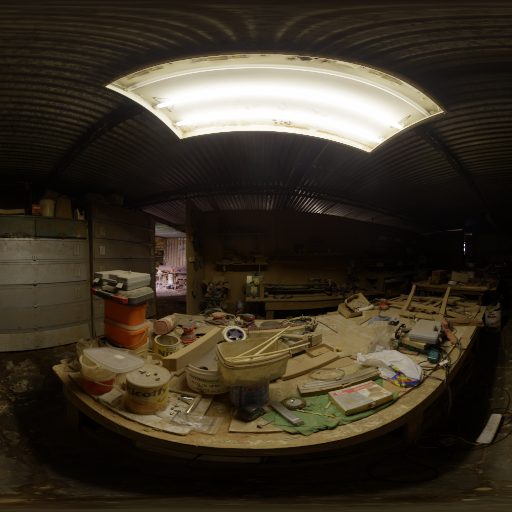
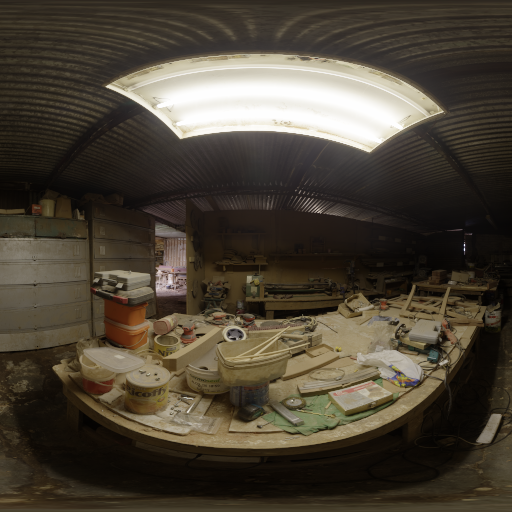
added target_color_space to ColorImage tone mapping; added ACEScc CS to color2color script

diff --git a/src/tinycio/usertypes.py b/src/tinycio/usertypes.py
@@ -311,30 +311,51 @@ class ColorImage(torch.Tensor):
         res = ColorImage(res, color_space=color_space)
         return res
 
-    def tone_map(self, tone_mapper:Union[str,ToneMapping.Variant]) -> ColorImage:
+    def tone_map(self, 
+        tone_mapper:Union[str,ToneMapping.Variant], 
+        target_color_space:Union[str,ColorSpace.Variant]=ColorSpace.Variant.SRGB_LIN) -> ColorImage:
         """
         Apply tone mapping and return as new :class:`ColorImage`.
 
         .. note::
 
+            Image will be returned and (if the TMO allows) tone mapped in the desired target color space. 
             Any needed color space conversion will be handled automatically.
 
         :param tone_mapper: Tone mapper to use.
         :type tone_mapper: str | ToneMapping.Variant
+        :param target_color_space: The desired color space the image should be tone mapped for. 
+            Must be a scene-linear RGB color space. The image will be returned in this color space. 
+            If the TMO requires a different color space, the image will converted after tone mapping. 
+            Some TMOs may have been designed with linear sRGB in mind and may not perform as expected 
+            in a different color space.
+        :type target_color_space: str | ColorSpace.Variant
         :return: New tone mapped :class:`ColorImage`.
         """
         if type(tone_mapper) is str: tone_mapper = ToneMapping.Variant[tone_mapper.strip().upper()]
-        assert isinstance(tone_mapper, ToneMapping.Variant), "Invalid tone mapper"
+        if type(target_color_space) is str: target_color_space = ColorSpace.Variant[target_color_space.strip().upper()]
         ip = self.clone()
-        cs_tm = self.color_space
+
+        assert isinstance(tone_mapper, ToneMapping.Variant), "Invalid tone mapper"
+        assert target_color_space & ColorSpace.Variant.SCENE_LINEAR, "target color space expected to be scene-linear"
+        assert (target_color_space & ColorSpace.Variant.SCENE_LINEAR & ColorSpace.Variant.MODEL_RGB), \
+            "target color space must be a in a scene-linear RGB color space"
+        assert self.color_space != ColorSpace.Variant.UNKNOWN and self.color_space != ColorSpace.Variant.NONCOLOR, \
+            "input image must have a valid color space"
+        
+        res = None
+
         if tone_mapper == ToneMapping.Variant.ACESCG:
-            cs_tm = ColorSpace.Variant.ACESCG
-        elif not (self.color_space & ColorSpace.Variant.SCENE_LINEAR & ColorSpace.Variant.MODEL_RGB):
-            cs_tm = ColorSpace.Variant.SRGB_LIN
-        res = ColorSpace.convert(ip, source=self.color_space, destination=cs_tm)
+            res = ColorSpace.convert(ip, source=self.color_space, destination=ColorSpace.Variant.ACESCG)
+        else:
+            res = ColorSpace.convert(ip, source=self.color_space, destination=target_color_space)
+        
         res = ToneMapping.apply(res, tone_mapper=tone_mapper)
-        res = ColorSpace.convert(res, source=cs_tm, destination=self.color_space)
-        return ColorImage(res, color_space=self.color_space)
+
+        if tone_mapper == ToneMapping.Variant.ACESCG:
+            res = ColorSpace.convert(res, source=ColorSpace.Variant.ACESCG, destination=target_color_space)
+
+        return ColorImage(res.clamp(0., 1.), color_space=target_color_space)
 
     def lut(self, lut:Union[str, LookupTable], lut_format=LUTFormat.UNKNOWN) -> ColorImage:
         """

diff --git a/src/tinycio/scripts/color2color.py b/src/tinycio/scripts/color2color.py
@@ -16,29 +16,43 @@ def main_cli():
             'cie_xyz', 'cie_xyy', 'srgb', 'srgb_lin',
             'rec709', 'rec2020', 'rec2020_lin', 
             'dci_p3', 'dci_p3_lin', 'display_p3',
-            'acescg', 'aces2065_1', 'lms', 'hsl', 'hsv',
-            'oklab', 'cielab'],
+            'acescg', 'aces2065_1', 'acescc', 'lms', 
+            'hsl', 'hsv', 'oklab', 'cielab'],
         metavar='input-color-space', # because bad formatting is bad :(
         help='Input color space\n' + \
             'CHOICES:\n' + \
             '    cie_xyz, cie_xyy, srgb, srgb_lin, \n' + \
             '    rec709, rec2020, rec_2020_lin, \n' + \
             '    dci_p3, dci_p3_lin, display_p3, \n' + \
-            '    acescg, aces2065_1, lms, hsl, hsv \n' + \
-            '    oklab, cielab'
+            '    acescg, acescc, aces2065_1, \n' + \
+            '    lms, hsl, hsv, oklab, cielab'
         )
     parser.add_argument('output', type=str, help='Output image file path')
     parser.add_argument(
         'ocs',
         type=str, 
         choices=[
-            'cie_xyz', 'cie_xyy', 'srgb', 'srgb_linear',
-            'rec709', 'rec2020', 'dci_p3', 'display_p3',
-            'acescg', 'aces2065_1', 'lms', 'hsl', 'hsv',
-            'oklab', 'cielab'],
+            'cie_xyz', 'cie_xyy', 'srgb', 'srgb_lin',
+            'rec709', 'rec2020', 'rec2020_lin', 
+            'dci_p3', 'dci_p3_lin', 'display_p3',
+            'acescg', 'aces2065_1', 'acescc', 'lms', 
+            'hsl', 'hsv', 'oklab', 'cielab'],
         metavar='output-color-space',
         help='Output color space\n' + \
             'CHOICES: [same as above]'  
+        )
+    parser.add_argument(
+        '--tmcs', 
+        type=str, 
+        default="srgb_lin", 
+        const="srgb_lin",
+        nargs='?',
+        choices=['srgb_lin', 'rec2020_lin', 'dci_p3_lin', 'acescg', 'aces2065_1'],
+        metavar='', 
+        help='Tone mapping color space (default: %(default)s)\n' + \
+            'CHOICES:\n' + \
+            '    srgb_lin, rec2020_lin \n' + \
+            '    dci_p3_lin, acescg, aces2065_1 \n'
         )
     parser.add_argument(
         '--igf', 
@@ -101,7 +115,7 @@ def main_cli():
         else:
             im = ColorImage.load(fp_in, color_space=cs_in, graphics_format=gf_in)
 
-        im = im.tone_map(tm) # it's okay to pass "NONE"
+        im = im.tone_map(tm, target_color_space=args.tmcs) # it's okay to pass "NONE"
         im = im.to_color_space(cs_out)
         if ac is not None: im = torch.cat([im, ac], dim=0)
         im.save(fp_out, gf_out)

diff --git a/src/tinycio/colorspace.py b/src/tinycio/colorspace.py
@@ -48,7 +48,7 @@ class ColorSpace:
         OKHSV       = 1<<22
         OKHSL       = 1<<23
 
-        SCENE_LINEAR    = SRGB_LIN | REC2020_LIN | DCI_P3_LIN | ACESCG | ACES2065_1 | CIE_XYZ
+        SCENE_LINEAR    = SRGB_LIN | REC2020_LIN | DCI_P3_LIN | ACESCG | ACES2065_1 | LMS | CIE_XYZ
         PERCEPTUAL      = OKLAB | CIELAB | CIELUV | OKHSL | OKHSV
         CYLINDRICAL     = HSL | HSV | OKHSL | OKHSV
 
@@ -105,6 +105,29 @@ class ColorSpace:
         [ 1.705050993,  -0.6217921206,-0.083258872],
         [-0.1302564175,  1.140804737, -0.01054831907],
         [-0.02400335681,-0.1289689761, 1.152972333]]
+
+    mat_aces_rrt_sat = [
+        [0.970889, 0.026963, 0.002148],
+        [0.010889, 0.986963, 0.002148],
+        [0.010889, 0.026963, 0.962148]]
+
+    mat_aces_rrt_sat_inv = [
+        [ 1.03032  , -0.0280865, -0.0022375],
+        [-0.0113427,  1.01358  , -0.0022375],
+        [-0.0113427, -0.0280865,  1.03943]]
+
+    # sRGB => XYZ => D65_2_D60 => AP1 => RRT_SAT
+    mat_srgb_to_ap1_tm = [
+        [0.59719, 0.35458, 0.04823],
+        [0.07600, 0.90834, 0.01566],
+        [0.02840, 0.13383, 0.83777]]
+
+    # ODT_SAT => XYZ => D60_2_D65 => sRGB
+    mat_ap1_to_srgb_tm = [
+        [ 1.60475, -0.53108, -0.07367],
+        [-0.10208,  1.10813, -0.00605],
+        [-0.00327, -0.07276,  1.07602]
+        ]
 
     # NOTE: Includes "D60"/D65 white point conversion
     mat_srgb_to_aces2065_1 = [
@@ -400,6 +423,14 @@ class ColorSpace:
         X = (Y / y) * x
         Z = (Y / y) * (1. - x - y)
         return torch.cat([X, Y, Z], dim=0)
+
+    @classmethod
+    def _ap1_rrt_sat(cls, im:torch.Tensor) -> torch.Tensor:
+        return mm(im, cls.mat_aces_rrt_sat)
+
+    @classmethod
+    def _ap1_rrt_sat_inv(cls, im:torch.Tensor) -> torch.Tensor:
+        return mm(im, cls.mat_aces_rrt_sat_inv)
 
     @classmethod
     def _xyz_to_lms(cls, xyz:torch.Tensor) -> torch.Tensor:

diff --git a/tests/test_tonemapping.py b/tests/test_tonemapping.py
@@ -24,14 +24,14 @@ class TestCodec(unittest.TestCase):
         # Checks color space conversion consistency
         for tm in self.tm_list:
             im = ColorImage.load('../doc/images/test_image.png', 'SRGB')
-            im1 = im.tone_map(tm)
-            im2 = im.to_color_space('CIE_XYZ').tone_map(tm).to_color_space('SRGB')
+            im1 = im.tone_map(tm, target_color_space='SRGB_LIN').to_color_space('SRGB')
+            im2 = im.to_color_space('CIE_XYZ').tone_map(tm, target_color_space='SRGB_LIN').to_color_space('SRGB')
             compare = self.check_diff_torch(im1, im2, self.err_tol)
             self.assertTrue(compare)
-            im2 = im.to_color_space('REC2020').tone_map(tm).to_color_space('SRGB')
+            im2 = im.to_color_space('REC2020').tone_map(tm, target_color_space='SRGB_LIN').to_color_space('SRGB')
             compare = self.check_diff_torch(im1, im2, self.err_tol)
             self.assertTrue(compare)
-            im2 = im.to_color_space('LMS').tone_map(tm).to_color_space('SRGB')
+            im2 = im.to_color_space('LMS').tone_map(tm, target_color_space='SRGB_LIN').to_color_space('SRGB')
             compare = self.check_diff_torch(im1, im2, self.err_tol)
             self.assertTrue(compare)
 

diff --git a/src/tinycio/tonemapping.py b/src/tinycio/tonemapping.py
@@ -170,7 +170,7 @@ class ToneMapping:
     @classmethod
     def _aces_fitted(cls, im:torch.Tensor):
         """
-        Apply ACES (fitted version) tone mapping.
+        Apply ACES (Stephen Hill's fitted version) tone mapping.
         
         .. note::
         
@@ -183,8 +183,9 @@ class ToneMapping:
         C, H, W = im.size()
 
         # RRT and ODT
+        im = ColorSpace._ap1_rrt_sat(im)
         a = im * (im + 0.0245786) - 0.000090537
         b = im * (0.983729 * im + 0.4329510) + 0.238081
-        im  = a / b
+        im  = ColorSpace._ap1_rrt_sat_inv(a / b)
 
         return torch.clamp(im, 0., 1.) 

diff --git a/doc/index.rst b/doc/index.rst
@@ -232,6 +232,9 @@ Special thanks
 * The AgX implementation is owed to `Troy James Sobotka <https://github.com/sobotka/AgX-S2O3>`_ and `Liam Collod <https://github.com/MrLixm/AgXc>`_. 
 * Some loss computations are borrowed from `NLUT <https://github.com/semchan/NLUT/tree/main>`_. 
 * Thanks to the `@64 blog <https://64.github.io/tonemapping/>`_ for explaining common tone mapping algorithms. 
+* `Stephen Hill (@self_shadow) <https://github.com/TheRealMJP/BakingLab/blob/master/BakingLab/ACES.hlsl>`_ for ACES tone mapping fit.
+* `John Hable <http://filmicworlds.com/blog/filmic-tonemapping-operators/>`_ for the Uncharted 2 operator.
+* `Reinhard et al. <https://www.cs.utah.edu/docs/techreports/2002/pdf/UUCS-02-001.pdf>`_ for their operator. 
 * The white balancing and the von Kries transform were kindly explained by `pbr-book <https://pbr-book.org/4ed/Cameras_and_Film/Film_and_Imaging>`_.
 * The `OKLAB <https://bottosson.github.io/posts/oklab/>`_ color space was developed by `Björn Ottosson <https://bottosson.github.io/>`_
 * The `OKHSL and OKHSV <https://bottosson.github.io/posts/colorpicker/>`_ color space conversions originally by  `Brian Holbrook <https://github.com/holbrookdev>`_

diff --git a/doc/source/howto_tone_map.rst b/doc/source/howto_tone_map.rst
@@ -12,7 +12,7 @@ Tone map HDR images
     from tinycio import ColorImage
 
     im = ColorImage.load('my/hdr_image.tif', 'SRGB_LIN')
-    im.tone_map('AGX_PUNCHY').save('my/ldr_image.tif')
+    im.tone_map('AGX_PUNCHY', target_color_space='SRGB_LIN').save('my/ldr_image.tif')
 
 ----
 
@@ -39,7 +39,7 @@ If you do this manually and step-by-step instead, take note of the inputs expect
     im_ldr = ToneMapping.apply(im_ap1, tone_mapper=tm)
 
     # Take image to sRGB and apply the gamma curve
-    im_srgb = ColorSpace.convert(im_ldr, cs_in, cs_out)
+    im_srgb = ColorSpace.convert(im_ldr, cs_tm, cs_out)
 
     # Save final image as 24-bit sRGB PNG file
     fsio.save_image(im_srgb, 'my/ldr_image.png')

diff --git a/doc/source/about_release_notes.rst b/doc/source/about_release_notes.rst
@@ -1,6 +1,11 @@
 Release notes
 =============
 
+.. rubric:: v 0.7.0 a - Apr. 2024
+
+* Added :code:`target_color_space` argument to :class:`.ColorImage` tone mapping. Image will be returned and, if possible, tone mapped in the desired color space.
+* Added ACEScc color space to :code:`tcio-color2color` script
+
 .. rubric:: v 0.6.3 a - Mar. 2024
 
 * Minor correction to sRGB transfer functions (insignificant for 8-bit values)
